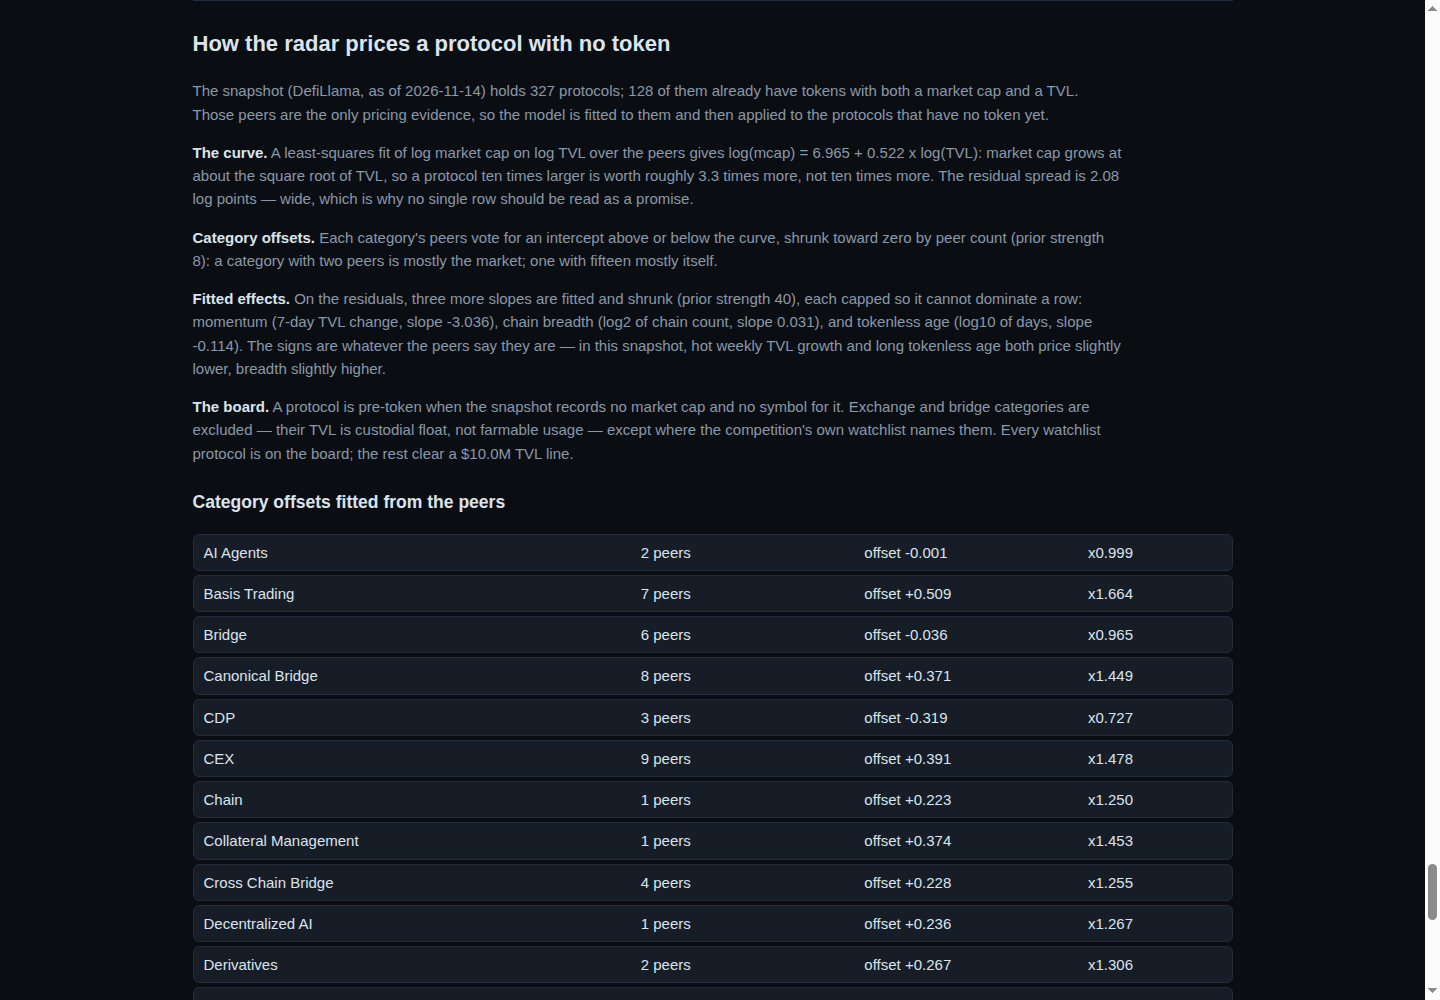
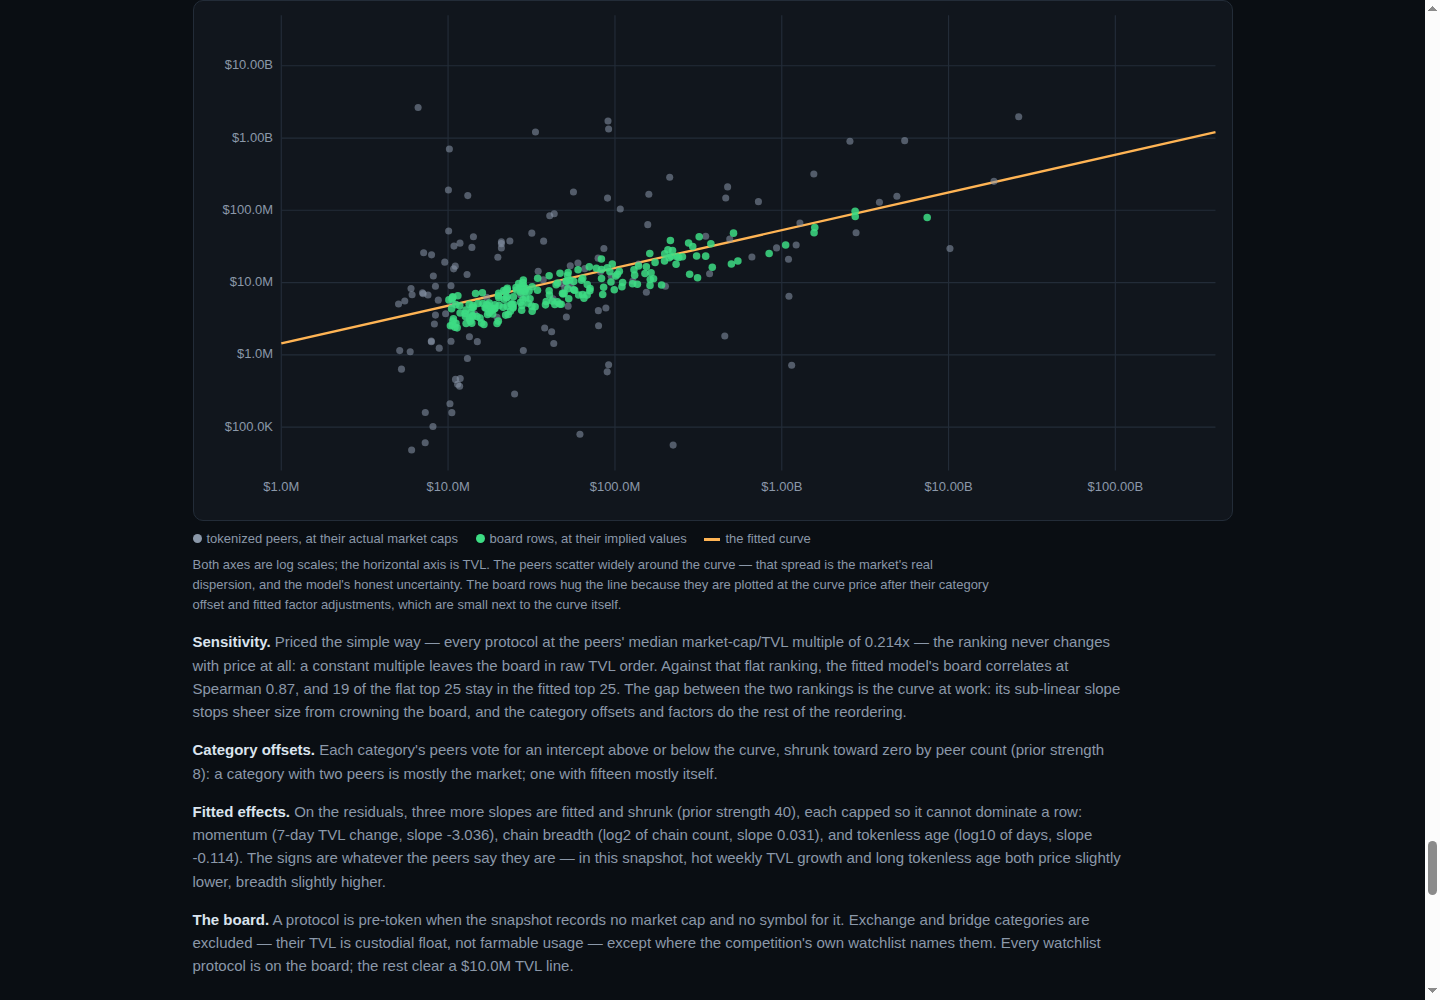
Dashboard: fitted-curve chart and sensitivity analysis
Methodology now draws the model: a log-log scatter of the 128 tokenized
peers at their actual market caps and the 199 board rows at their implied
values against the fitted curve, plus a sensitivity block comparing the
fitted ranking with flat median-multiple pricing (Spearman 0.87, 19 of
the flat top 25 retained), computed by the program into the data payload.

diff --git a/dashboard/app.js b/dashboard/app.js
@@ -187,6 +187,32 @@ function openDetail(slug) {
   $("#detail").scrollIntoView({ behavior: "smooth", block: "start" });
 }
 
+function fittedChart() {
+  const W = 880, H = 440, L = 74, R = 14, T = 12, B = 42;
+  const x0 = 6, x1 = 11.6, y0 = 4.4, y1 = 10.7;
+  const px = (lx) => L + ((lx - x0) / (x1 - x0)) * (W - L - R);
+  const py = (ly) => T + (1 - (ly - y0) / (y1 - y0)) * (H - T - B);
+  const LN10 = Math.log(10);
+  const lineY = (lx) => (model.alpha + model.beta * lx * LN10) / LN10;
+  let s = "";
+  for (let g = Math.ceil(x0); g <= x1; g++) {
+    s += `<line x1="${px(g).toFixed(1)}" y1="${T}" x2="${px(g).toFixed(1)}" y2="${H - B}" class="grid"/>` +
+      `<text x="${px(g).toFixed(1)}" y="${H - B + 17}" class="tick" text-anchor="middle">${money(Math.pow(10, g))}</text>`;
+  }
+  for (let g = Math.ceil(y0); g <= y1; g++) {
+    s += `<line x1="${L}" y1="${py(g).toFixed(1)}" x2="${W - R}" y2="${py(g).toFixed(1)}" class="grid"/>` +
+      `<text x="${L - 7}" y="${(py(g) + 3).toFixed(1)}" class="tick" text-anchor="end">${money(Math.pow(10, g))}</text>`;
+  }
+  s += `<line x1="${px(x0).toFixed(1)}" y1="${py(lineY(x0)).toFixed(1)}" x2="${px(x1).toFixed(1)}" y2="${py(lineY(x1)).toFixed(1)}" class="fitline"/>`;
+  for (const p of peers) {
+    s += `<circle cx="${px(Math.log10(p.tvl_usd)).toFixed(1)}" cy="${py(Math.log10(p.mcap_usd)).toFixed(1)}" r="3" class="peer"/>`;
+  }
+  for (const r of rows) {
+    s += `<circle cx="${px(Math.log10(r.tvl_usd)).toFixed(1)}" cy="${py(Math.log10(r.implied_value_usd)).toFixed(1)}" r="3.2" class="rowpt"/>`;
+  }
+  return `<svg viewBox="0 0 ${W} ${H}" role="img" aria-label="Log-log scatter of peer market caps and board implied values against TVL with the fitted curve">${s}</svg>`;
+}
+
 function renderMethod() {
   const catRows = R.categories
     .map(
@@ -209,6 +235,25 @@ function renderMethod() {
     ${Math.pow(10, model.beta).toFixed(1)} times more, not ten times more. The
     residual spread is ${model.residual_sd.toFixed(2)} log points — wide, which is
     why no single row should be read as a promise.</p>
+    <div class="chart">${fittedChart()}
+      <div class="legend"><span class="dot peerdot"></span>tokenized peers, at their actual market caps
+      <span class="dot rowdot"></span>board rows, at their implied values
+      <span class="swatch"></span>the fitted curve</div>
+      <p class="caption">Both axes are log scales; the horizontal axis is TVL. The
+      peers scatter widely around the curve — that spread is the market's real
+      dispersion, and the model's honest uncertainty. The board rows hug the line
+      because they are plotted at the curve price after their category offset and
+      fitted factor adjustments, which are small next to the curve itself.</p>
+    </div>
+    <p><strong>Sensitivity.</strong> Priced the simple way — every protocol at the
+    peers' median market-cap/TVL multiple of ${model.sensitivity.median_multiple.toFixed(3)}x —
+    the ranking never changes with price at all: a constant multiple leaves the
+    board in raw TVL order. Against that flat ranking, the fitted model's board
+    correlates at Spearman ${model.sensitivity.spearman_vs_flat.toFixed(2)}, and
+    ${model.sensitivity.top25_overlap} of the flat top 25 stay in the fitted top 25.
+    The gap between the two rankings is the curve at work: its sub-linear slope
+    stops sheer size from crowning the board, and the category offsets and
+    factors do the rest of the reordering.</p>
     <p><strong>Category offsets.</strong> Each category's peers vote for an
     intercept above or below the curve, shrunk toward zero by peer count
     (prior strength ${model.category_shrink_k}): a category with two peers is

diff --git a/lib/model.ts b/lib/model.ts
@@ -535,6 +535,40 @@ export function dashboardData(snapshot: Snapshot, rows: BoardRow[]) {
       multiple: round4(Math.exp(c.offset)),
     }))
     .sort((a, b) => a.category.localeCompare(b.category));
+  // Sensitivity: price the same board with the flat model this radar
+  // replaced — every protocol at the peers' median market-cap/TVL
+  // multiple — and compare the two rankings. A constant multiple never
+  // changes an ordering, so the flat ranking is the TVL ranking; the
+  // fitted curve earns its complexity only if it moves the board.
+  const ratios = peers
+    .map((p) => (p.mcap_usd as number) / p.tvl_usd)
+    .sort((a, b) => a - b);
+  const medianMultiple =
+    ratios.length % 2 === 1
+      ? ratios[(ratios.length - 1) / 2]
+      : (ratios[ratios.length / 2 - 1] + ratios[ratios.length / 2]) / 2;
+  const flatRank = new Map<string, number>();
+  [...rows]
+    .sort(
+      (a, b) =>
+        b.tvl_usd - a.tvl_usd || a.slug.localeCompare(b.slug),
+    )
+    .forEach((r, i) => flatRank.set(r.slug, i + 1));
+  const meanRank = (rows.length + 1) / 2;
+  let cov = 0;
+  let varSum = 0;
+  for (const r of rows) {
+    const d = r.rank - meanRank;
+    cov += d * ((flatRank.get(r.slug) as number) - meanRank);
+    varSum += d * d;
+  }
+  const spearman = varSum > 0 ? cov / varSum : 1;
+  const fittedTop = new Set(
+    rows.filter((r) => r.rank <= 25).map((r) => r.slug),
+  );
+  const top25Overlap = [...flatRank.entries()]
+    .filter(([, rk]) => rk <= 25)
+    .filter(([slug]) => fittedTop.has(slug)).length;
   return {
     as_of: snapshot.as_of,
     source: snapshot.source,
@@ -550,6 +584,11 @@ export function dashboardData(snapshot: Snapshot, rows: BoardRow[]) {
         momentum: round4(fit.slopes.momentum),
         breadth: round4(fit.slopes.breadth),
         age: round4(fit.slopes.age),
+      },
+      sensitivity: {
+        median_multiple: round4(medianMultiple),
+        spearman_vs_flat: round4(spearman),
+        top25_overlap: top25Overlap,
       },
     },
     rows,

diff --git a/dashboard/app.css b/dashboard/app.css
@@ -145,3 +145,18 @@ footer {
   .prow { grid-template-columns: 1.4fr 0.8fr 0.8fr; }
   .prow span:last-child { display: none; }
 }
+
+.chart { margin: 16px 0 8px; }
+.chart svg { width: 100%; height: auto; display: block; background: var(--surface); border: 1px solid var(--line); border-radius: var(--radius); }
+.chart .grid { stroke: var(--line); stroke-width: 1; }
+.chart .fitline { stroke: var(--amber); stroke-width: 2; }
+.chart circle.peer { fill: var(--muted); opacity: .55; }
+.chart circle.rowpt { fill: var(--green); opacity: .85; }
+.chart .tick { fill: var(--muted); font-size: 11px; }
+.chart .legend { margin-top: 8px; color: var(--muted); font-size: 13px; }
+.chart .legend .dot { display: inline-block; width: 9px; height: 9px; border-radius: 50%; margin: 0 5px 0 14px; }
+.chart .legend .dot:first-child { margin-left: 0; }
+.chart .legend .peerdot { background: var(--muted); }
+.chart .legend .rowdot { background: var(--green); }
+.chart .legend .swatch { display: inline-block; width: 16px; height: 3px; background: var(--amber); vertical-align: middle; margin: 0 5px 0 14px; }
+.chart .caption { color: var(--muted); font-size: 13px; margin-top: 6px; }

diff --git a/README.md b/README.md
@@ -4,7 +4,7 @@
 [![rank](https://make.fun/badge/token-radar-01/kombattan/token-radar/rank.svg)](https://make.fun/bounty/token-radar-01/leaderboard?utm_source=github&utm_medium=readme&utm_campaign=token-radar-01)
 [![reward](https://make.fun/badge/token-radar-01/kombattan/token-radar/reward.svg)](https://make.fun/bounty/token-radar-01?utm_source=github&utm_medium=readme&utm_campaign=token-radar-01)
 
-A token launch radar over the sealed DefiLlama snapshot: every protocol that records no token, ranked by implied value. Each pre-token protocol is priced by a model fitted to the snapshot's own tokenized protocols: a least-squares curve of market cap over TVL (value grows at about the square root of size), a per-category offset shrunk by peer count, and fitted adjustments for seven-day TVL momentum, chain breadth and tokenless age. The board covers all 40 watchlist protocols and adds 159 further pre-token finds beyond it, each with a concrete eight-step farm plan (wallet setup, the category's core action, position sizing against its own TVL, cadence, honest gas costs on its own chain, and the exit) derived from its category, chains, TVL and age. The dashboard is a static page with no network: a searchable, sortable, filterable board, a per-protocol detail view that recomputes the row's implied value in the page from the fitted parameters, the category's tokenized peers, and the full methodology with every fitted parameter printed.
+A token launch radar over the sealed DefiLlama snapshot: every protocol that records no token, ranked by implied value. Each pre-token protocol is priced by a model fitted to the snapshot's own tokenized protocols: a least-squares curve of market cap over TVL (value grows at about the square root of size), a per-category offset shrunk by peer count, and fitted adjustments for seven-day TVL momentum, chain breadth and tokenless age. The board covers all 40 watchlist protocols and adds 159 further pre-token finds beyond it, each with a concrete eight-step farm plan (wallet setup, the category's core action, position sizing against its own TVL, cadence, honest gas costs on its own chain, and the exit) derived from its category, chains, TVL and age. The dashboard is a static page with no network: a searchable, sortable, filterable board, a per-protocol detail view that recomputes the row's implied value in the page from the fitted parameters, the category's tokenized peers, and the full methodology with every fitted parameter printed, a log-log chart of the peers and board rows against the fitted curve, and a sensitivity comparison against flat median-multiple pricing.
 
 ## Run it
 
